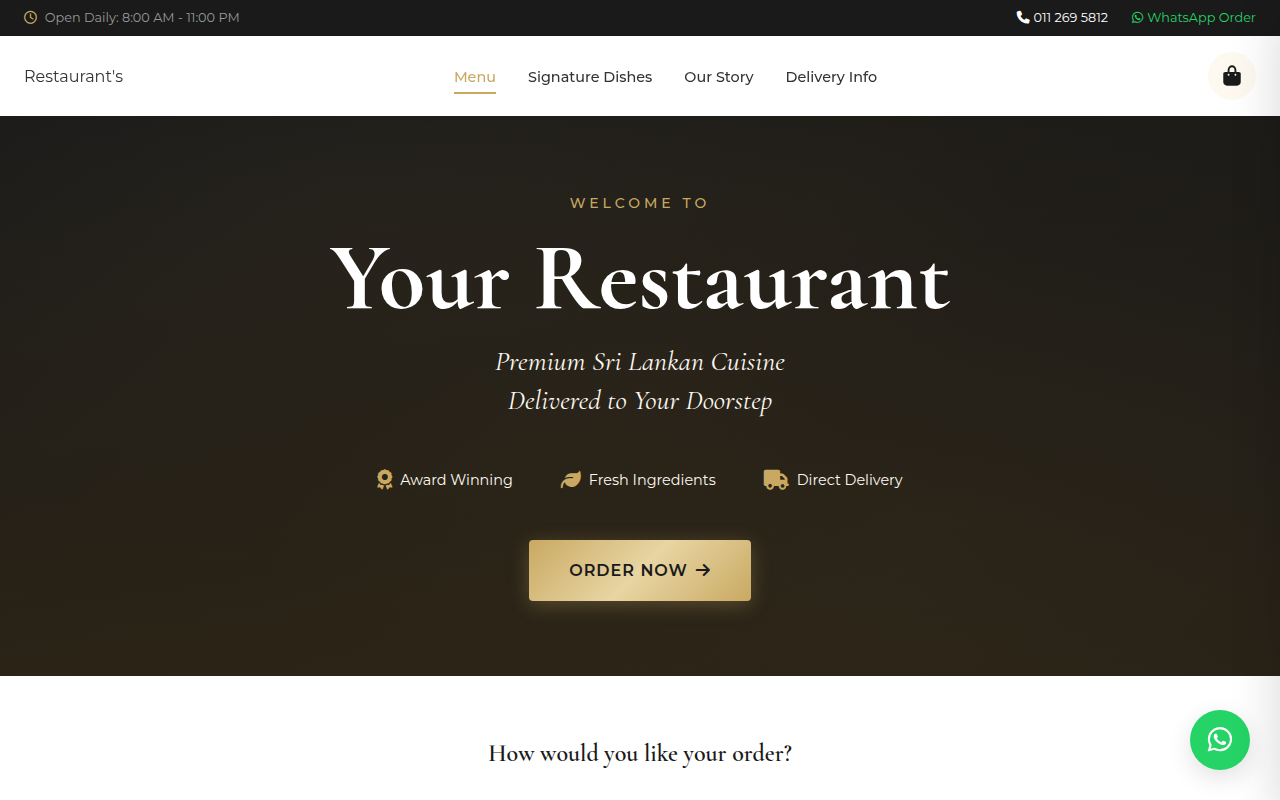
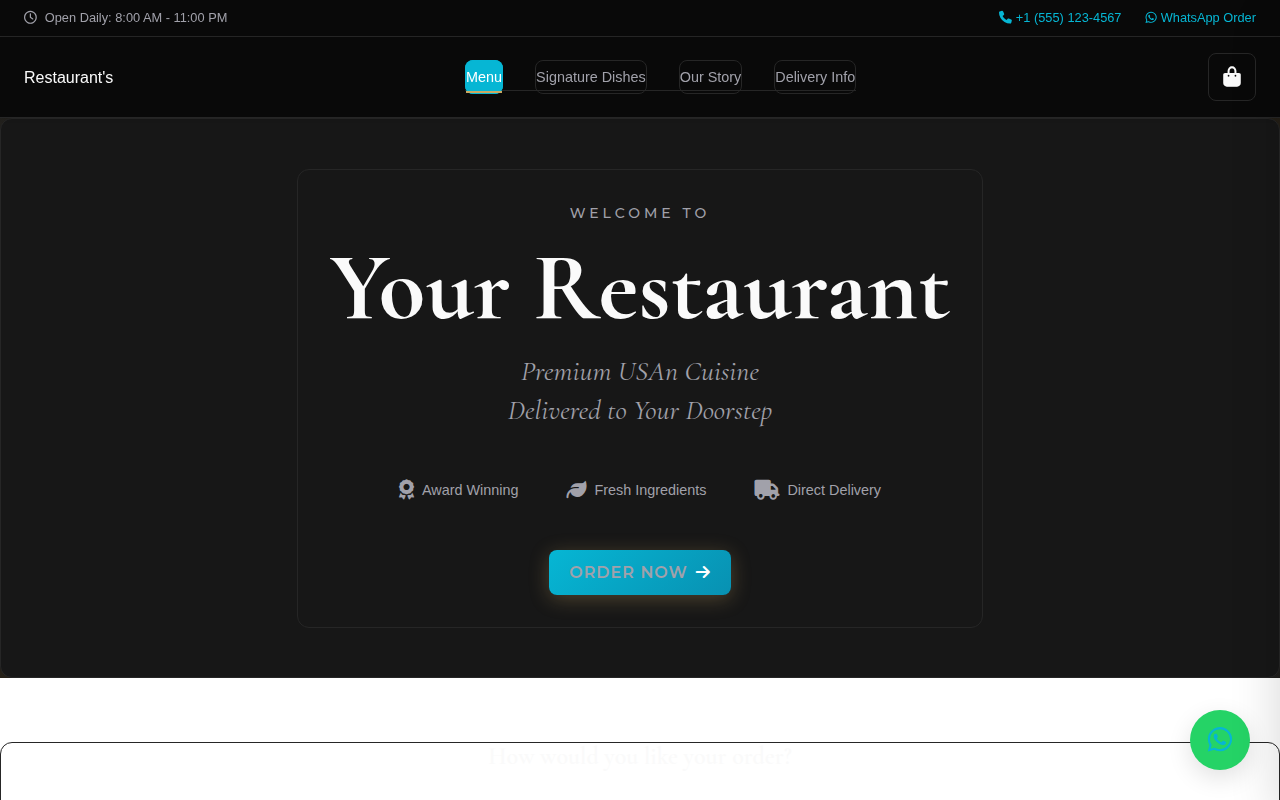
🎨 Complete Ghost Protocol themed screenshots + fix open source refs
Screenshots:
- Full dark theme (#0a0a0a background)
- Cyan accent color (#06b6d4) for buttons, links, prices
- All client contact info replaced with placeholders
- Currency, location references genericized
- Removed SVG placeholders

Portfolio:
- Changed DragonScale from 'Open Source Product' to 'Restaurant Platform'
- Removed MIT license reference
- Updated client name

diff --git a/lib/data.tsx b/lib/data.tsx
@@ -115,20 +115,20 @@ export const portfolioProjects: PortfolioProject[] = [
   {
     id: "dragonscale",
     title: "DragonScale Restaurant Platform",
-    category: "Open Source Product",
+    category: "Restaurant Platform",
     description:
       "A modern, self-hosted restaurant ordering platform. Accept online orders, manage menus, track deliveries, and own your customer relationships — without monthly fees or vendor lock-in.",
     image: "/dragonscale/hero.jpg",
     features: ["Online Ordering", "Menu Management", "Order Tracking", "Admin Dashboard", "Payment Integration", "Mobile-First Design"],
     technologies: ["PHP 8", "SQLite", "Vanilla JS", "CSS3"],
-    client: "Ghost Protocol (Open Source)",
+    client: "Ghost Protocol",
     year: "2026",
     challenge:
       "Restaurant owners face a difficult choice: pay 15-30% commission to third-party ordering platforms, or invest heavily in custom solutions. Small and medium restaurants need an affordable way to own their online ordering without technical complexity.",
     solution:
-      "We built DragonScale — an open-source, self-hosted ordering platform that any restaurant can deploy for free. It uses SQLite for zero-configuration setup, includes a beautiful customer ordering interface, and provides a powerful admin panel for order and menu management.",
+      "We built DragonScale — a powerful, self-hosted ordering platform that restaurants can deploy and fully own. It uses SQLite for zero-configuration setup, includes a beautiful customer ordering interface, and provides a powerful admin panel for order and menu management.",
     results: [
-      "100% open source under MIT license",
+      "Full source code access with license",
       "Zero monthly fees or per-order charges",
       "Deploys on any PHP 8+ hosting",
       "Production-ready with security built-in",
